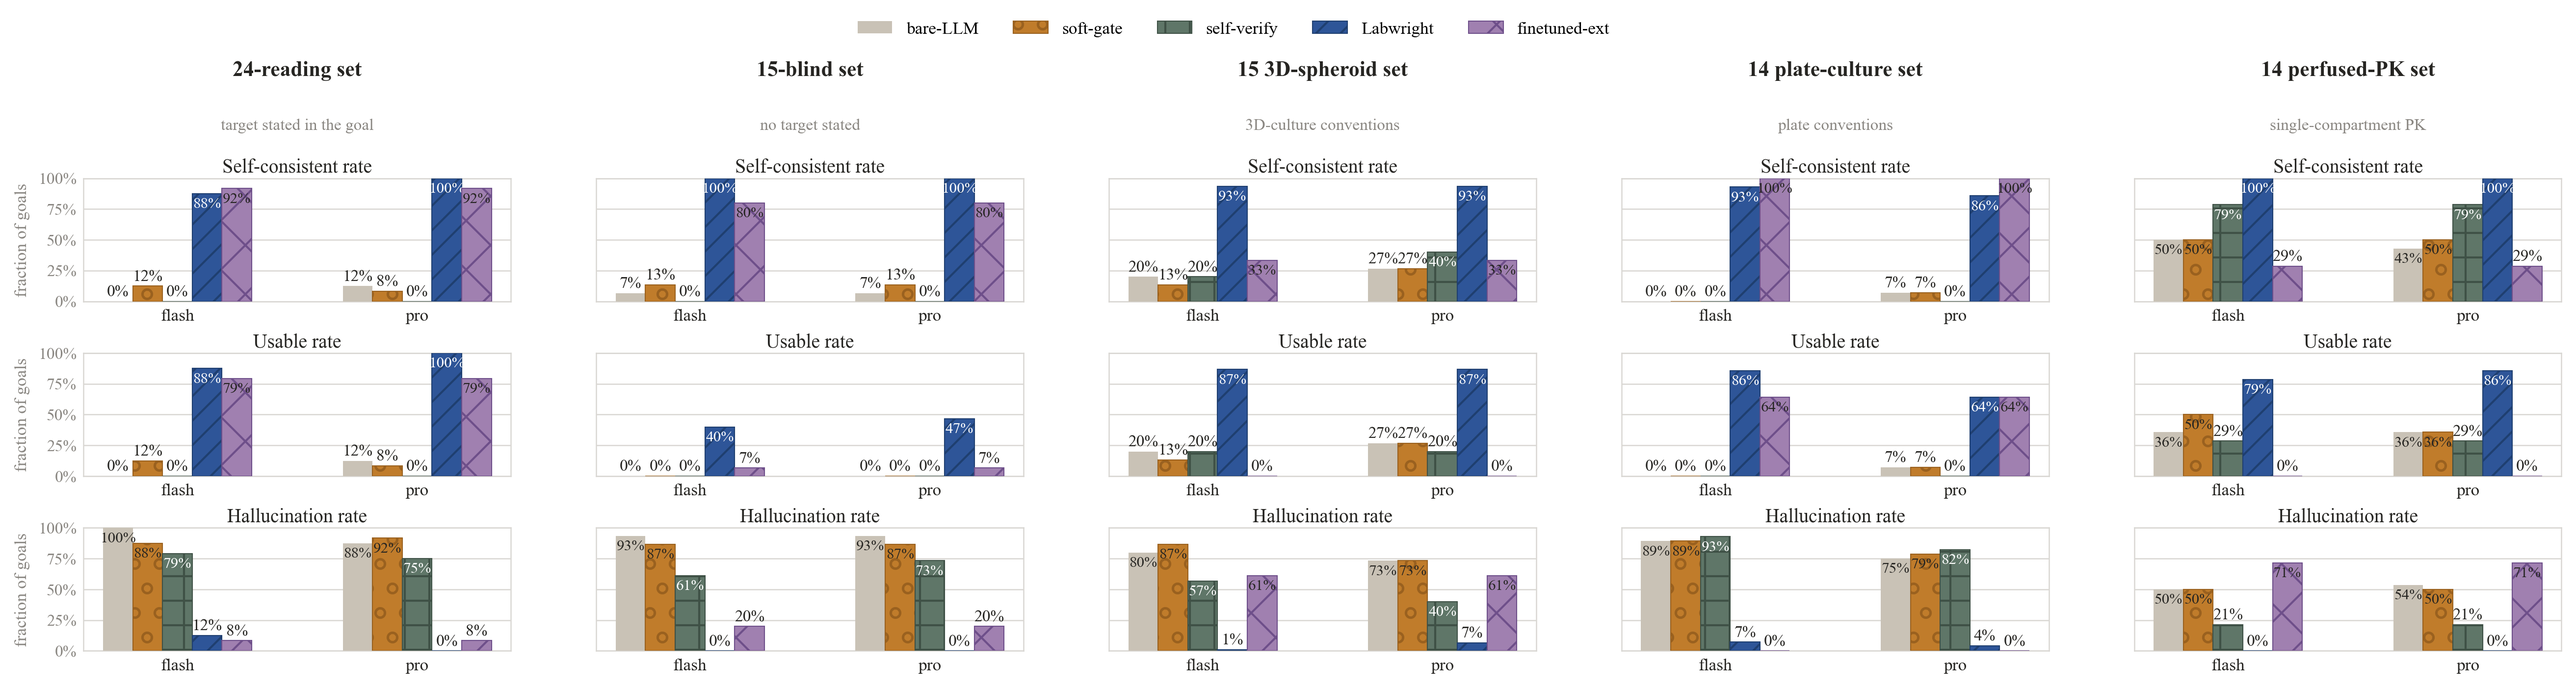
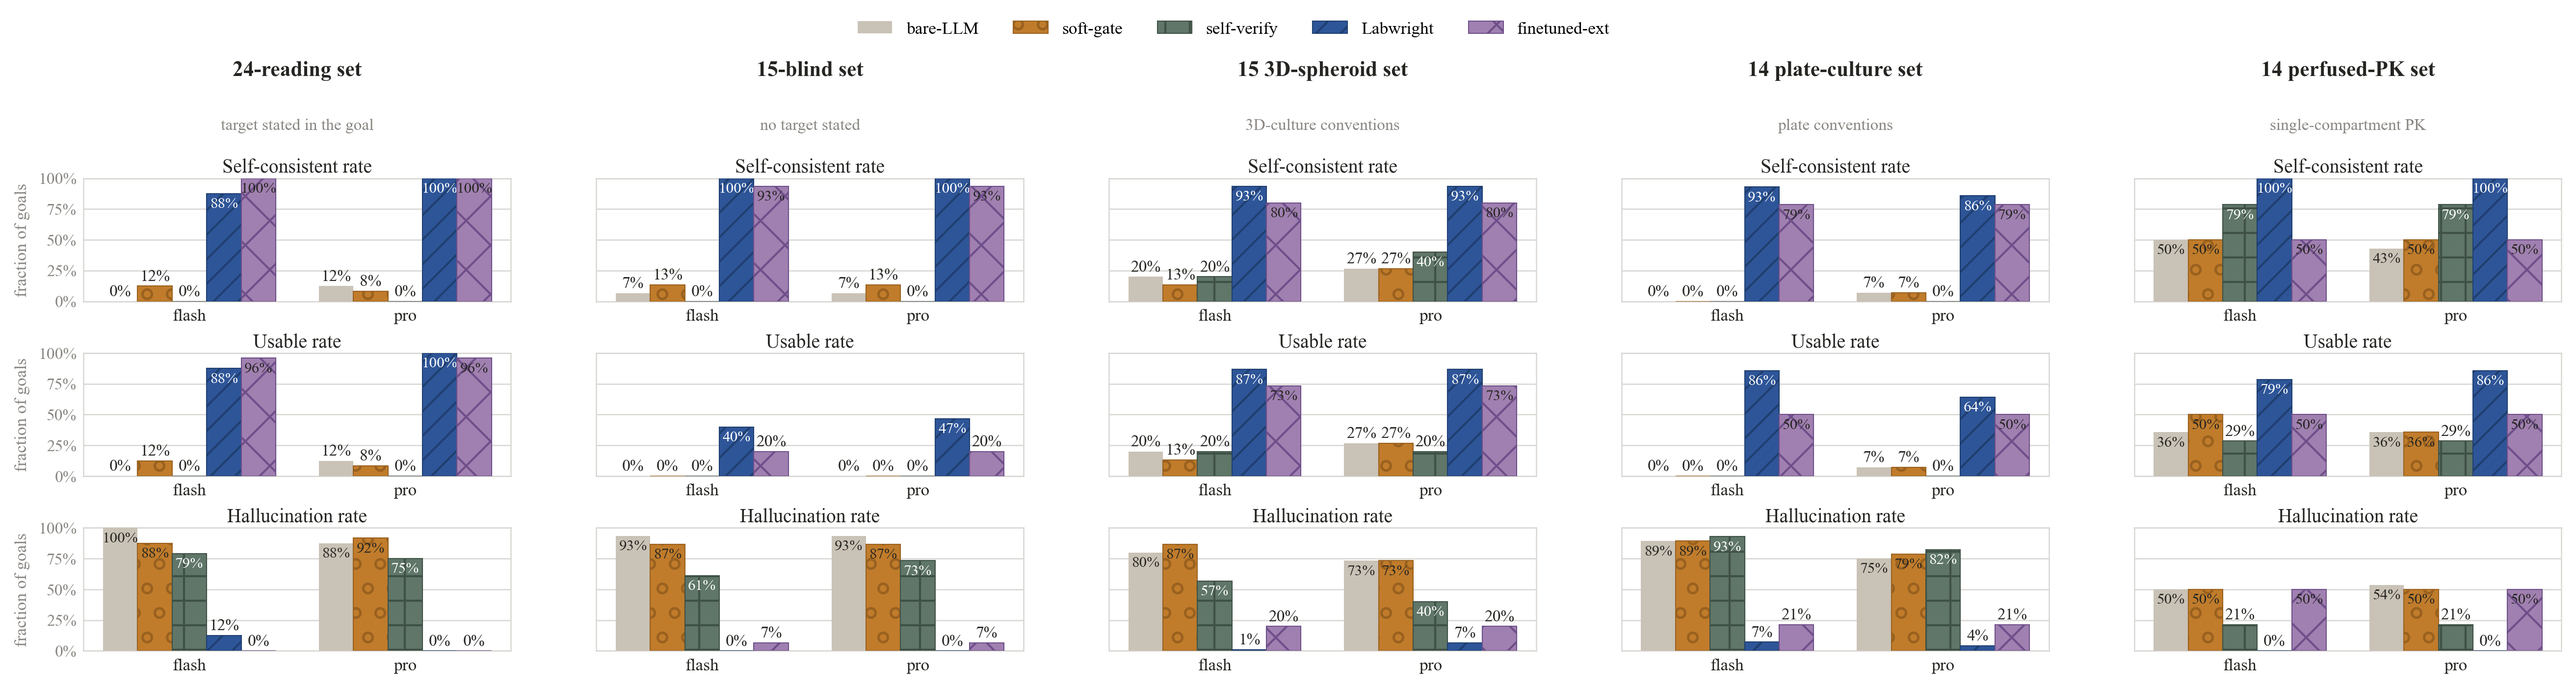
space: sync benchmark figure (finetuned series) + add new-domains row to showcase
The HF static showcase now reflects the committed benchmark: fig_benchmark.png
regenerated from lora_v3 per-entry data (finetuned-ext bars included), and the
table gains the 14-new-domains set (Labwright flash 13/14, pro 11/14; bare was
not run on this set, shown honestly as em-dash). Numbers verified per-entry
against results/eval_new_domains_labwright_{flash,pro}.json.

diff --git a/hf_space/static/index.html b/hf_space/static/index.html
@@ -143,7 +143,16 @@
       <tr><td class="hl">Labwright</td><td class="hl">86 %</td><td class="hl">64 %</td></tr>
       <tr><td rowspan="2">14-perfused-PK<br><span class="note" style="margin:0">on-chip pharmacokinetics</span></td><td>bare-LLM</td><td>36 %</td><td>36 %</td></tr>
       <tr><td class="hl">Labwright</td><td class="hl">79 %</td><td class="hl">86 %</td></tr>
+      <tr><td rowspan="2">14-new-domains<br><span class="note" style="margin:0">seven post-v1 domains</span></td><td>bare-LLM</td><td class="dim" style="color:#999">—</td><td class="dim" style="color:#999">—</td></tr>
+      <tr><td class="hl">Labwright</td><td class="hl">93 %</td><td class="hl">79 %</td></tr>
     </table>
+    <p class="note">The seven post-v1 domains (barrier, oxygen, pumpless, breathing, pulsatile,
+      scaling, gradient) were benchmarked end-to-end with the <b>Labwright</b> system on the 14
+      new-domain goals (no bare-memory baseline was run on this set). Flash submits 13/14,
+      pro 11/14; among submitted designs hallucination is 0.000 on both. The honest boundary:
+      the <code>gradient-fgf8-pattern</code> goal ends in silence on both models, and the
+      fine-tuned extractor — trained on flow/culture only — scores 0/14 here, a clean
+      out-of-distribution test.</p>
     <p class="note">Memory-only systems (bare, soft-gate, self-verify) rarely produce a usable
       design. Labwright's derived numbers are <i>architecturally</i> consistent — the honest
       headline is the blind-set drop: the gate stops fabricated numbers, but it cannot supply
